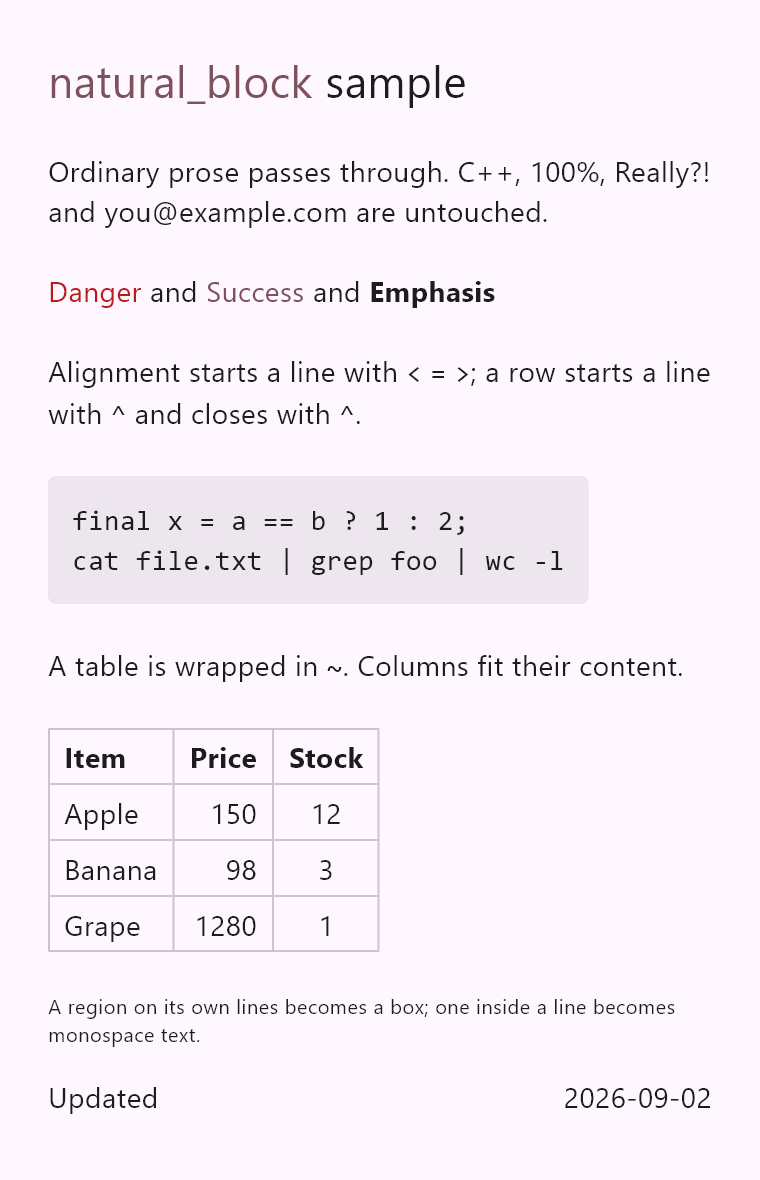
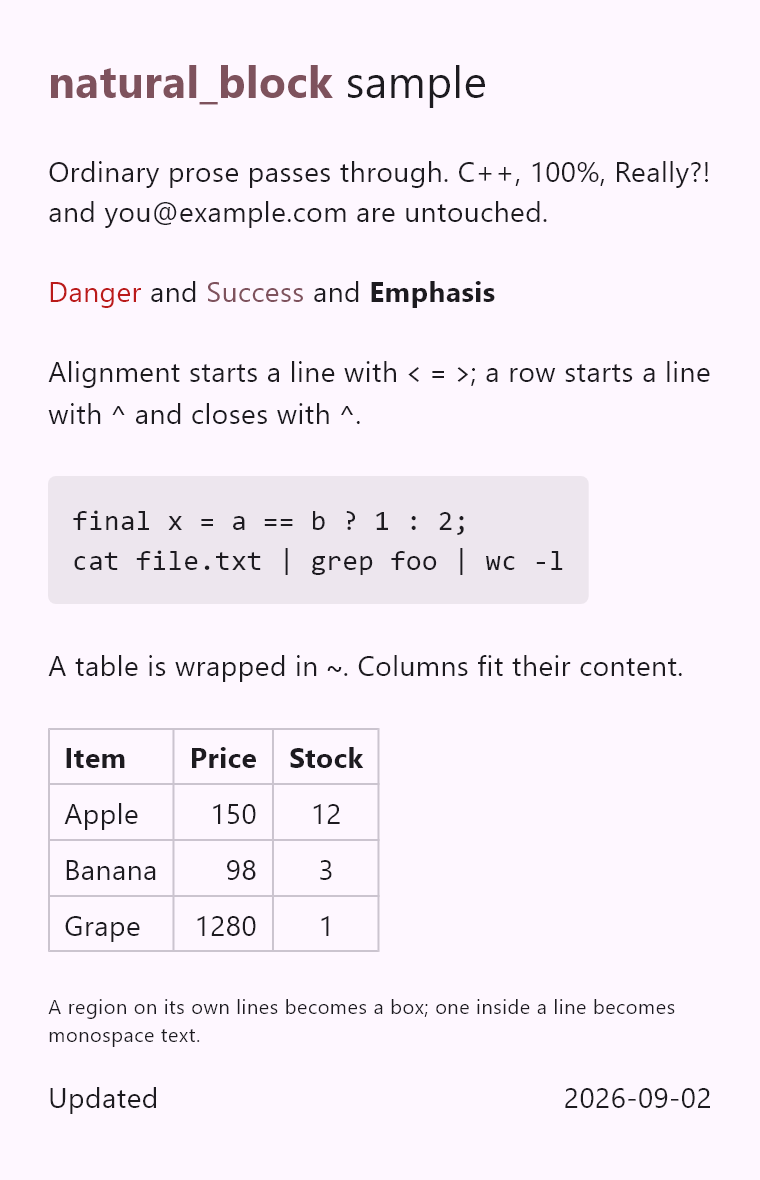
表を行頭の ~ で閉じる書き方に揃え、natural_block 0.2.0 に上げる
あわせて、見本の :++:*:% が強調を落としていたのを :++*% に直し、
以前の記法を前提にした記法例と設計メモの例を今の書き方にする。

Changed region(s): [[0.0605, 0.061, 0.6355, 0.0915]]

diff --git a/example/lib/samples.dart b/example/lib/samples.dart
@@ -9,8 +9,9 @@ const samples = [
   Sample('セマンティックスタイル', ':!危険:!通常:%成功:%通常:*強調:*'),
   Sample('色と太字を同時に(1つの:にまとめて書く、共通の::でまとめて閉じる)', ':!*緊急対応をお願いします::普通のテキスト'),
   Sample(
-    '記号の衝突安全性\n(単発の!?%*+-は常にただの文字)',
-    'Really?! It\'s on sale for 50% off, well-known and 10-20 people say it\'s *great*!',
+    '記号の衝突安全性\n(単発の!%*+-は常にただの文字。^ と ~ も行の途中なら文字)',
+    'Really?! It\'s on sale for 50% off, well-known and 10-20 people say it\'s *great*!\n'
+        '営業は月~金、10~20人まで。2^10 = 1024',
   ),
   Sample('文字サイズ\n(:+++で3段階、:で始めれば連打だけでOK)', ':++大きい:--標準サイズ'),
   Sample('2セルの横並び(行頭の ^ で始めて、行末の ^ で閉じる)', '^左のセル^右のセル^'),
@@ -54,7 +55,10 @@ const samples = [
         '甘い^\n'
         '~',
   ),
-  Sample('表を閉じる(~をもう一度書く)\n閉じないと入力の終わりまで表が続く', '~商品^価格^\nりんご^150^~合計^150'),
+  Sample(
+    '表を閉じる(行頭に ~ をもう一度書く)\n閉じないと入力の終わりまで表が続く',
+    '~\n商品^価格^\nりんご^150^\n~\n合計^150',
+  ),
   Sample(
     '画像(構文の追加なし、image(url)というカスタムの慣習)\n'
         'このアプリは NaturalBlockImages.network を customs に入れているので描画される。'
@@ -76,7 +80,7 @@ const samples = [
   ),
   Sample(
     r'エスケープ(\: と、行頭の \< \^、\\ でバックスラッシュそのもの)',
-    r'コロン \: はそのまま出る。^ は行頭でなければもともと文字'
+    r'コロン \: はそのまま出る。^ と ~ は行頭でなければもともと文字'
         '\n'
         r'\> 行頭の > も \ で文字になる'
         '\n'
@@ -87,11 +91,13 @@ const samples = [
   Sample('空セルで右端に飛ばす(表ではなく素の行。等分するから右端に来る)', '^左^^右^'),
   Sample(
     '中央寄せの表(表は寄せを持たず、入れたブロックの寄せで置かれる)',
-    '=~記号^意味^\n'
+    '=~\n'
+        '記号^意味^\n'
         '\\^^横に並べる^\n'
-        '\\~^表を囲む^~',
+        '\\~^表を囲む^\n'
+        '~',
   ),
-  Sample('囲み(1セルの表で、1つのものを枠で囲む)', '~注意~'),
+  Sample('囲み(1セルの表で、1つのものを枠で囲む)', '~\n注意\n~'),
   Sample('複数行のブロック(装飾は改行を越えない)', ':*1行目は太字\n2行目は普通に戻る'),
   Sample(
     'そのまま出す区間(バッククォートで囲む)\n単独で置くとコードブロックとして描かれる',
@@ -100,16 +106,17 @@ const samples = [
         'cat a.txt | grep b ^ c\n'
         '`',
   ),
-  Sample('^ は文中なら割れない', 'echo 2^10'),
   Sample(
     '文中にも置ける(同じ構文・同じノード)\n置かれ方で見た目だけが変わる',
     '比較は `a == b` で、横並びは `^左^右^` です',
   ),
   Sample(
     '表のセルの中でも使える\n^ を含むコードがセルを割らない',
-    '~記号^意味^\n'
+    '~\n'
+        '記号^意味^\n'
         '`^`^横に並べる^\n'
-        '`~`^表を囲む^~',
+        '`~`^表を囲む^\n'
+        '~',
   ),
   Sample(
     'フェンスは長くできる(``なら中に`を書ける)\nこの記法で自分自身を説明できる',

diff --git a/test/golden/layout_golden_test.dart b/test/golden/layout_golden_test.dart
@@ -94,20 +94,20 @@ void main() {
 
   testWidgets('tables', (tester) async {
     await _scene(tester, 'tables', [
-      ('~Item^Price^\nApple^200^\nBanana^1^~', null),
+      ('~Item^Price^\nApple^200^\nBanana^1^\n~', null),
       ('~\nA^>BBBB^\nC^D^\nE^<F^\n~', null),
-      ('~a^b^\nc^~', null),
-      ('~one cell~', null),
-      ('~^Item^Notes^\n^Apple^red\nsweet^\n^Lemon^sour^~', null),
-      ('~^^~', null),
-      ('=~A^B~', null),
+      ('~a^b^\nc^\n~', null),
+      ('~one cell\n~', null),
+      ('~^Item^Notes^\n^Apple^red\nsweet^\n^Lemon^sour^\n~', null),
+      ('~^^\n~', null),
+      ('=~A^B\n~', null),
       (
-        '~a^b^\nc^d^\ne^f^~',
+        '~a^b^\nc^d^\ne^f^\n~',
         NaturalBlockTheme.fromColorScheme(_scheme, striped: true),
       ),
-      ('~a^b^\nc^d^~', const NaturalBlockTheme(tableBorder: TableBorder())),
+      ('~a^b^\nc^d^\n~', const NaturalBlockTheme(tableBorder: TableBorder())),
       (
-        '~a^b^\nc^d^~',
+        '~a^b^\nc^d^\n~',
         const NaturalBlockTheme(
           tableCellPadding: EdgeInsets.symmetric(horizontal: 24),
         ),
@@ -145,15 +145,15 @@ void main() {
   testWidgets('everything nested in one document', (tester) async {
     await _scene(tester, 'combined', [
       (
-        '=:++:*Combined::\n'
+        '=:++*Combined::\n'
             '^<:!left:!^=centre `raw`^>:%right:%^\n'
             '~\n'
             '=:*Item::^>:*Price::^\n'
             ':@apple:@^>200^\n'
             '`banana`^>1^\n'
             '~\n'
-            '^a cell beside a table^~x^y^\nz^w^~^\n'
-            '=~A^B~\n'
+            '^a cell beside a table^~x^y^\nz^w^\n~^\n'
+            '=~A^B\n~\n'
             '^intro\n'
             '`\n'
             'if (x) {\n'

diff --git a/test/render/natural_block_builders_test.dart b/test/render/natural_block_builders_test.dart
@@ -59,7 +59,7 @@ void main() {
       await tester.pumpWidget(
         MaterialApp(
           home: NaturalBlockView(
-            source: '^x^:@a:@^\n~:@b:@^c~',
+            source: '^x^:@a:@^\n~:@b:@^c\n~',
             // ignore: non_const_argument_for_const_parameter
             customs: [(run) => tappableText(run, onTap: (_) {})],
           ),
@@ -78,7 +78,7 @@ void main() {
     testWidgets('a table cell is a tableCell', (tester) async {
       await pump(
         tester,
-        '~a^b~',
+        '~a^b\n~',
         NaturalBlockBuilders(tableCell: (node, scope) => const Placeholder()),
       );
 

diff --git a/tool/showcase.dart b/tool/showcase.dart
@@ -15,7 +15,7 @@ import 'package:flutter_test/flutter_test.dart';
 import 'package:natural_block_flutter/natural_block_flutter.dart';
 
 const _source = '''
-:++:*:%natural_block:: sample
+:++*%natural_block:: sample
 
 Ordinary prose passes through. C++, 100%, Really?! and you@example.com are untouched.
 

diff --git a/test/widget/natural_block_view_test.dart b/test/widget/natural_block_view_test.dart
@@ -264,7 +264,7 @@ void main() {
         '>A',
         '`code here`',
         '^a^b^',
-        '=~A^B^\nC^D^~',
+        '=~A^B^\nC^D^\n~',
         '   ',
       ]) {
         await tester.pumpWidget(

diff --git a/doc/design.md b/doc/design.md
@@ -33,7 +33,7 @@
 - 始端以外のブロックは、幅いっぱいの箱ではなく `Align` で包む。幅に上限がない
   所で、寄せの記号を足しただけで文書が描けなくなることがないように。raw の箱を
   伸ばさないのも同じ理由。
-- 行はセルに幅を均等に分ける。行をまたいで列が揃い、`左^^右` の `右` が右端に
+- 行はセルに幅を均等に分ける。行をまたいで列が揃い、`^左^^右^` の `右` が右端に
   寄る。幅に上限がない所では分けられないので、セルを中身の幅に縮める。列は
   揃わず寄せも効かないが、描けないよりはよい。
 - ノードを受け取るのは、子より多くをノードから読むビューだけ。`RowNodeView` と

diff --git a/README.md b/README.md
@@ -16,7 +16,7 @@ for the syntax.
 This source:
 
 ```text
-:++:*:%natural_block:: sample
+:++*%natural_block:: sample
 
 Ordinary prose passes through. C++, 100%, Really?! and you@example.com are untouched.
 

diff --git a/README.ja.md b/README.ja.md
@@ -17,7 +17,7 @@
 このソースは
 
 ```text
-:++:*:%natural_block:: sample
+:++*%natural_block:: sample
 
 Ordinary prose passes through. C++, 100%, Really?! and you@example.com are untouched.
 

diff --git a/CHANGELOG.md b/CHANGELOG.md
@@ -1,3 +1,8 @@
+## 0.2.0
+
+- Requires natural_block 0.2.0, where `~` opens and closes a table only at
+  the start of a line or of a row's cell.
+
 ## 0.1.0
 
 - Initial release.
